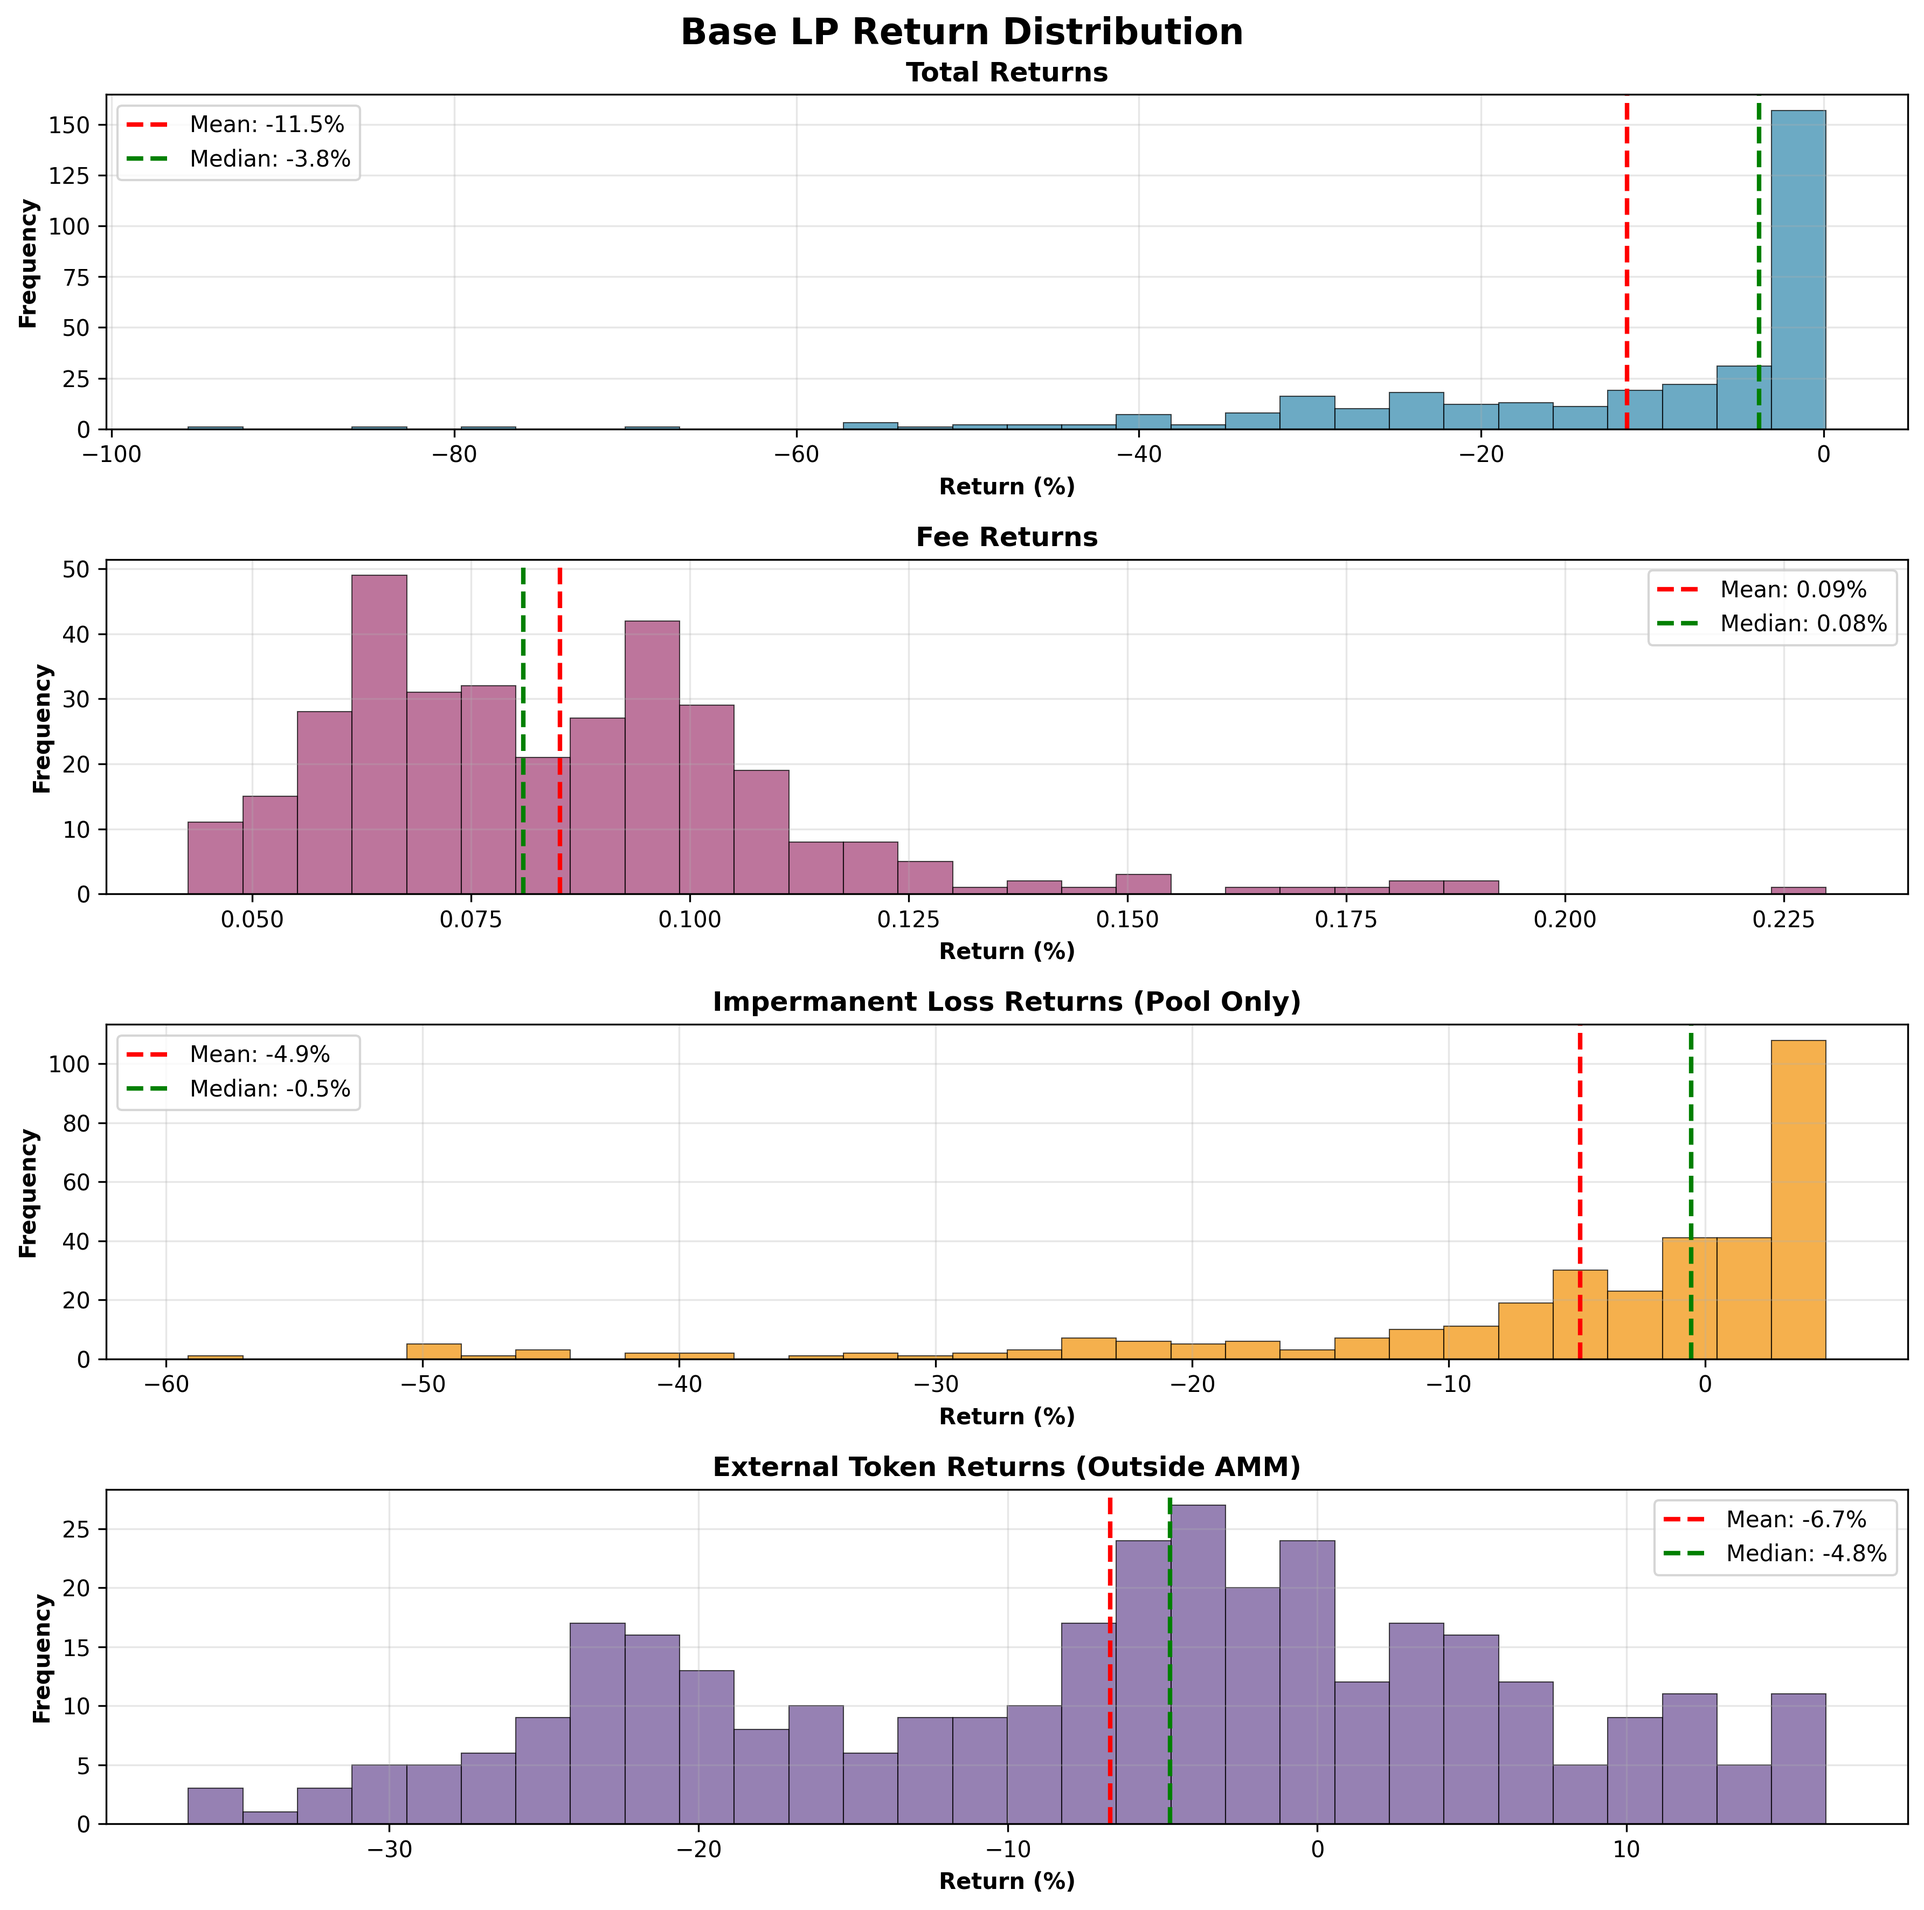
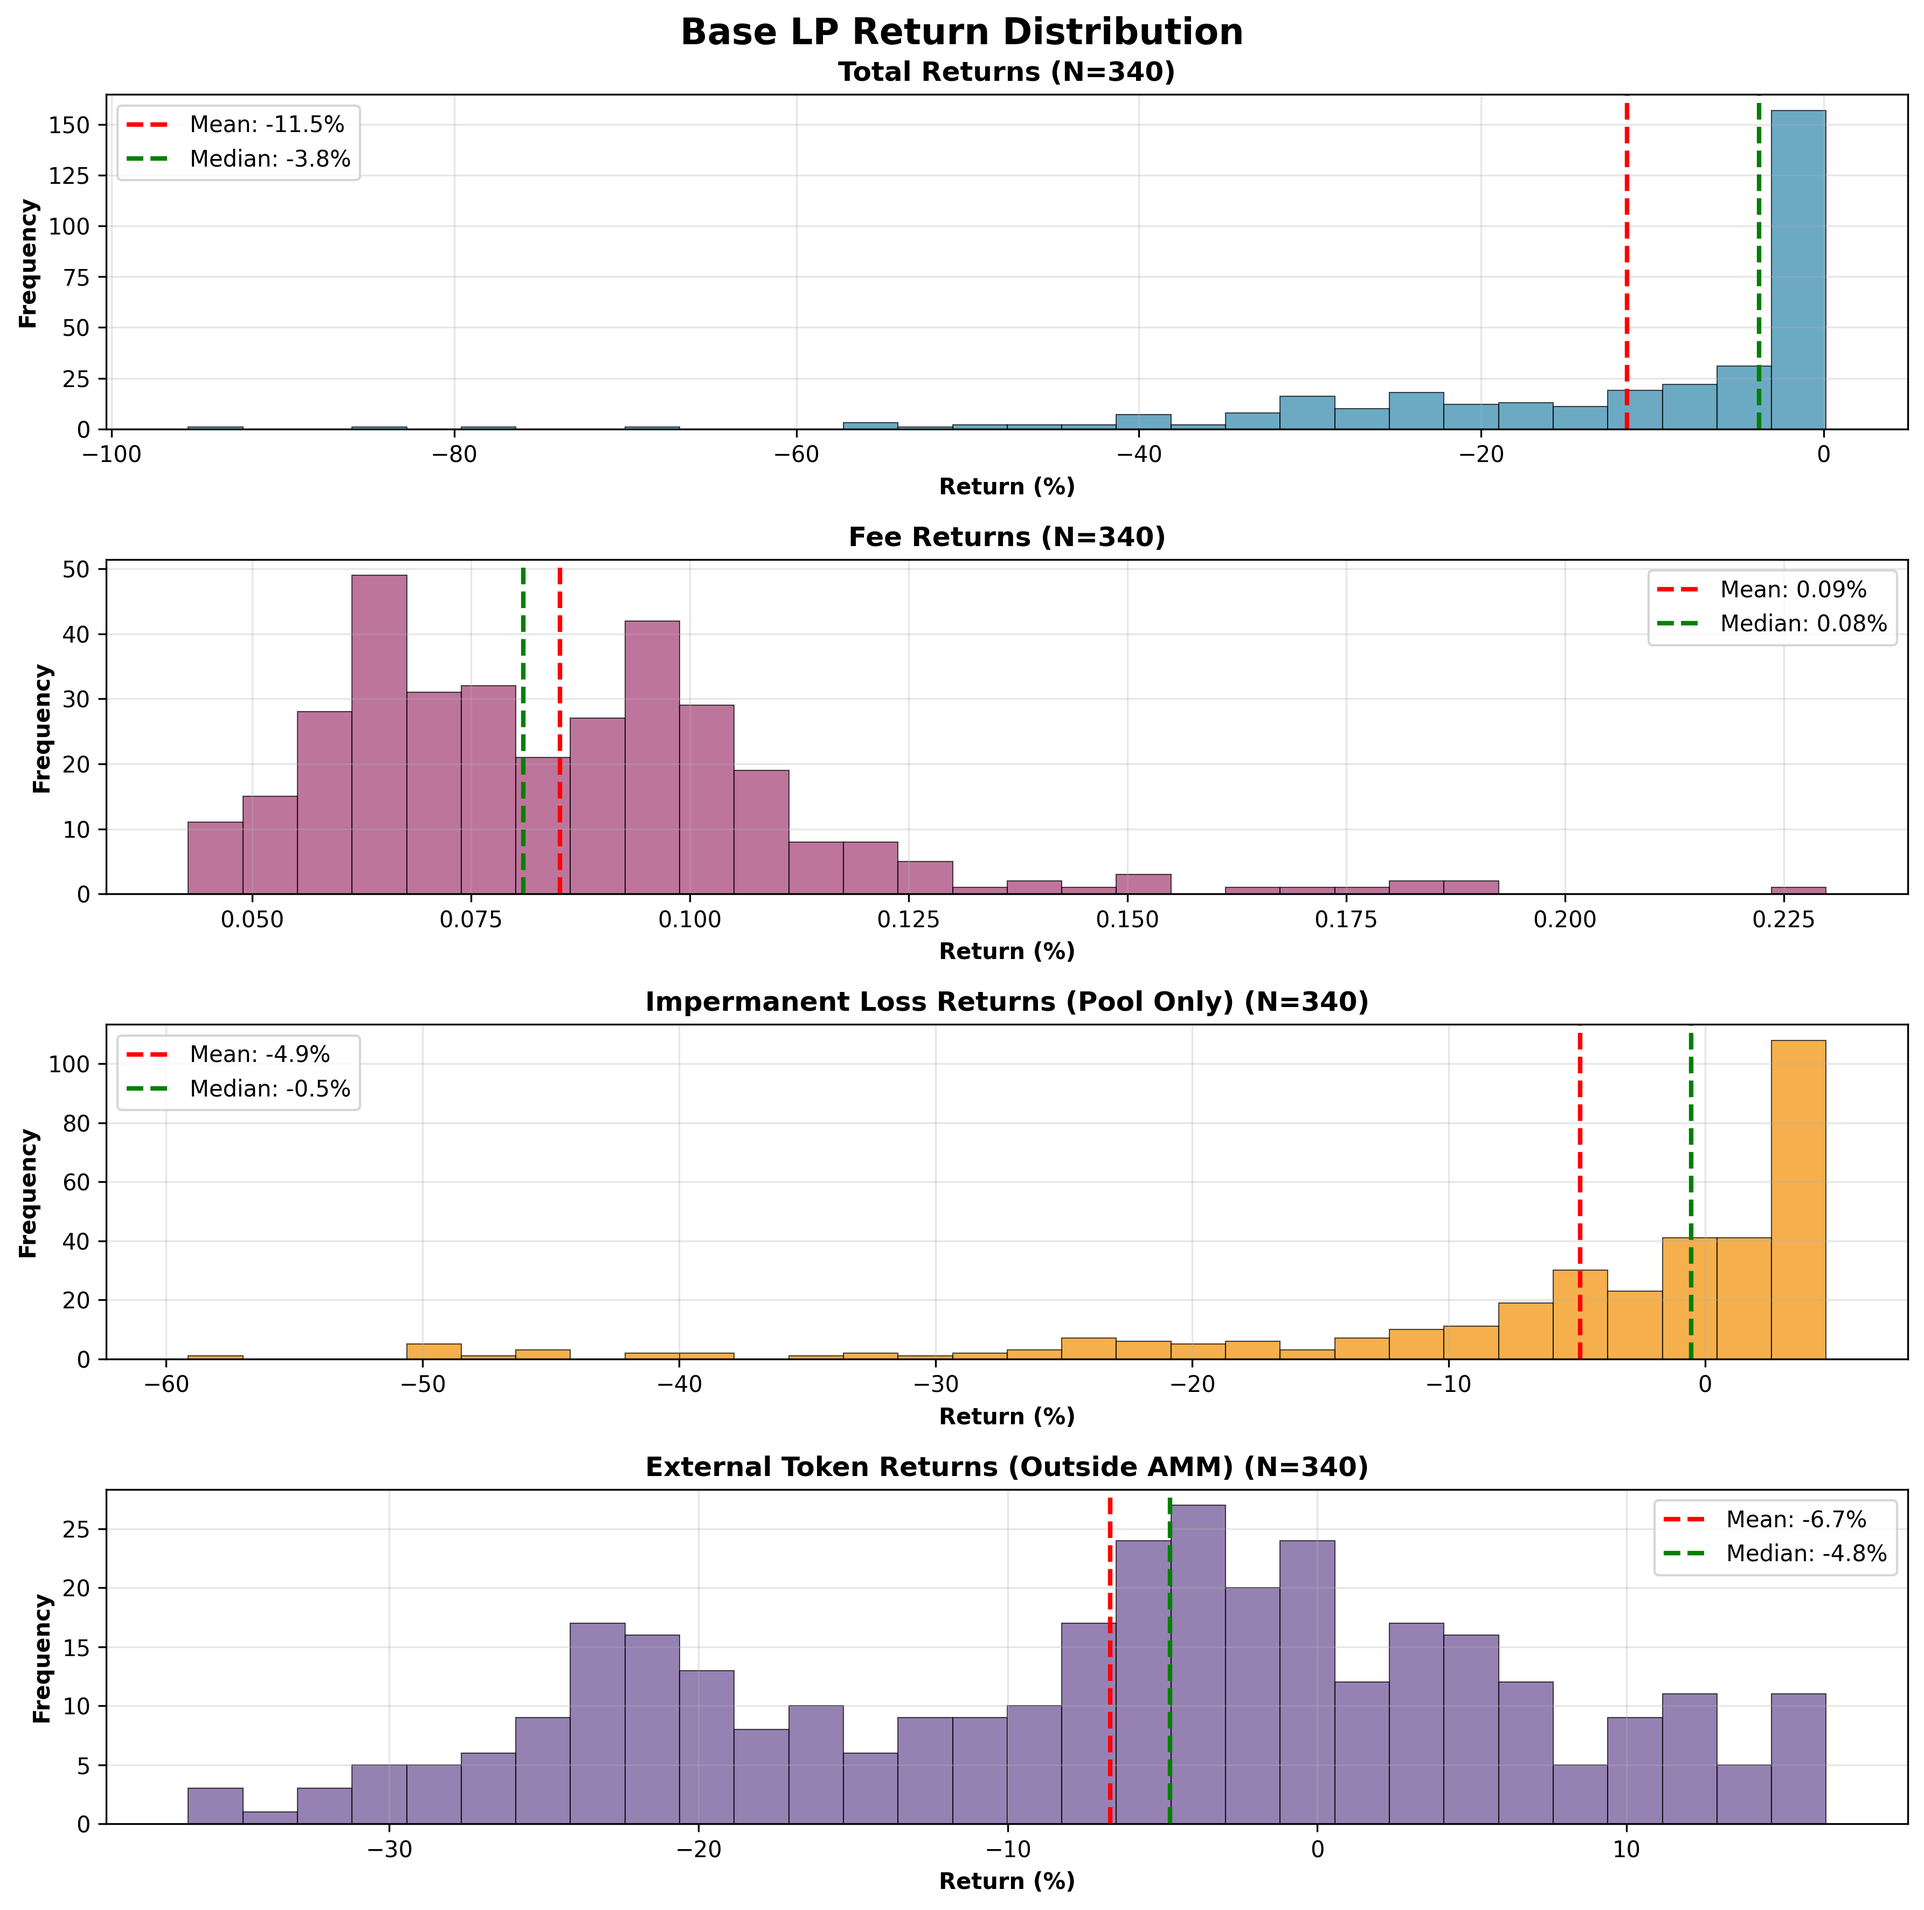
arbitrum_return_distributions.png base_return_distributions.png return_distributions.png unichain_return_distributions.png lp_visualization.py

diff --git a/src/lp_visualization.py b/src/lp_visualization.py
@@ -116,14 +116,15 @@ class LPReturnVisualizer:
                 va="center",
                 transform=ax.transAxes,
             )
-            ax.set_title(title, fontsize=12, fontweight="bold")
+            ax.set_title(f"{title} (N=0)", fontsize=12, fontweight="bold")
             return
 
         # Convert to numpy array and handle any invalid values
         data_array = np.array(data)
         data_array = data_array[np.isfinite(data_array)]  # Remove any NaN or inf values
+        num_samples = len(data_array)
 
-        if len(data_array) == 0:
+        if num_samples == 0:
             ax.text(
                 0.5,
                 0.5,
@@ -132,7 +133,7 @@ class LPReturnVisualizer:
                 va="center",
                 transform=ax.transAxes,
             )
-            ax.set_title(title, fontsize=12, fontweight="bold")
+            ax.set_title(f"{title} (N=0)", fontsize=12, fontweight="bold")
             return
 
         data_pct = data_array
@@ -175,7 +176,7 @@ class LPReturnVisualizer:
 
         ax.set_xlabel("Return (%)", fontweight="bold")
         ax.set_ylabel("Frequency", fontweight="bold")
-        ax.set_title(title, fontsize=12, fontweight="bold")
+        ax.set_title(f"{title} (N={num_samples})", fontsize=12, fontweight="bold")
         ax.legend()
         ax.grid(True, alpha=0.3)
 
